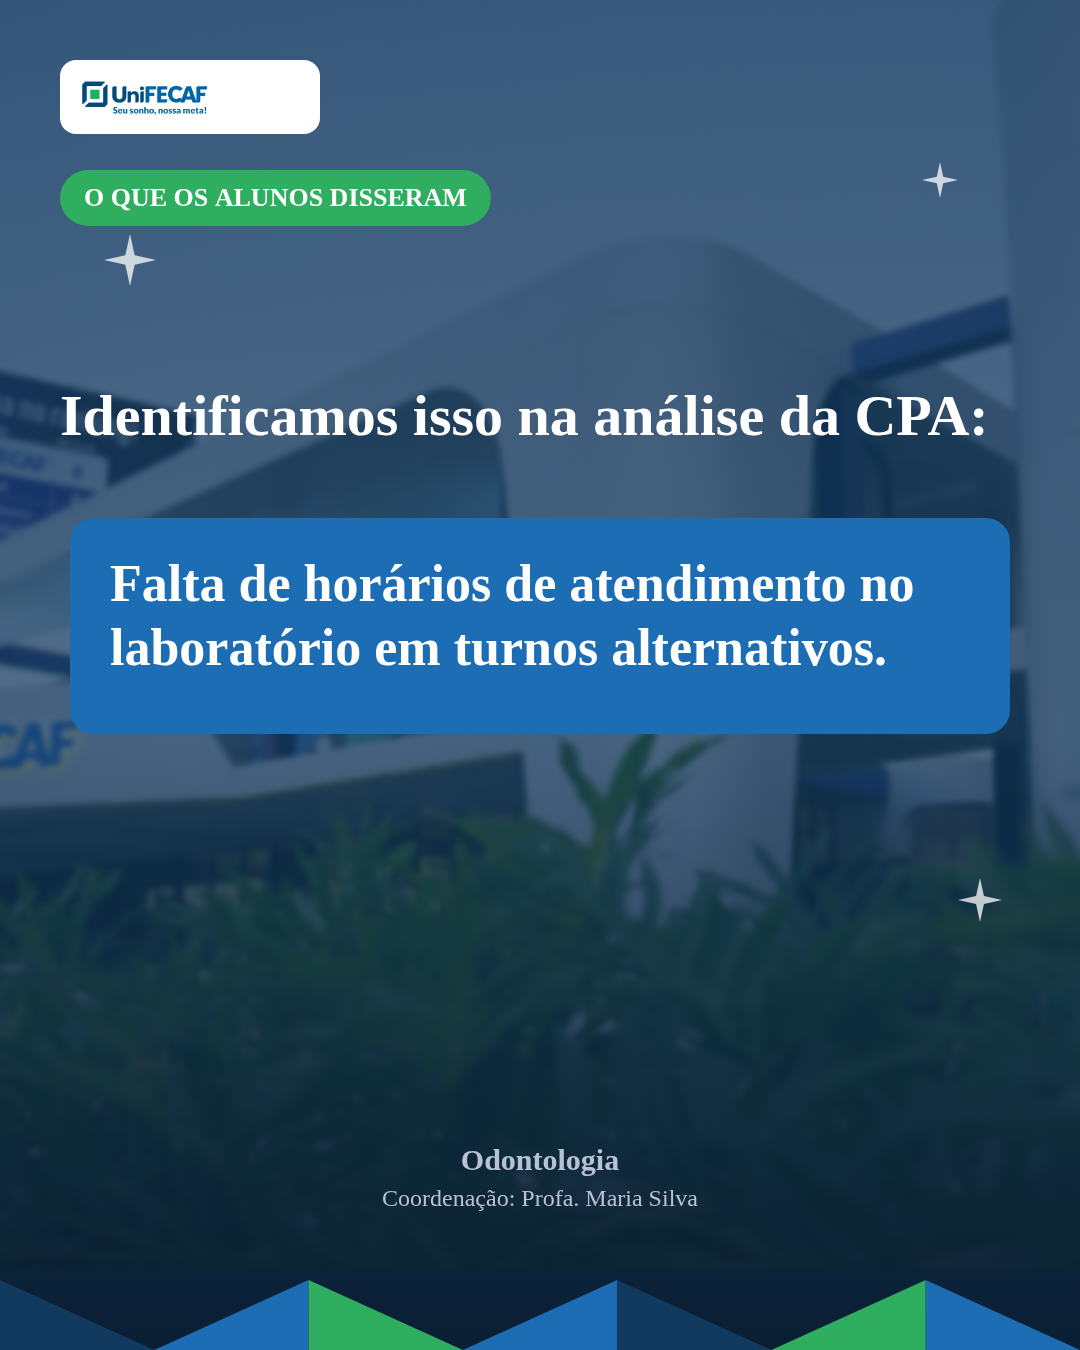
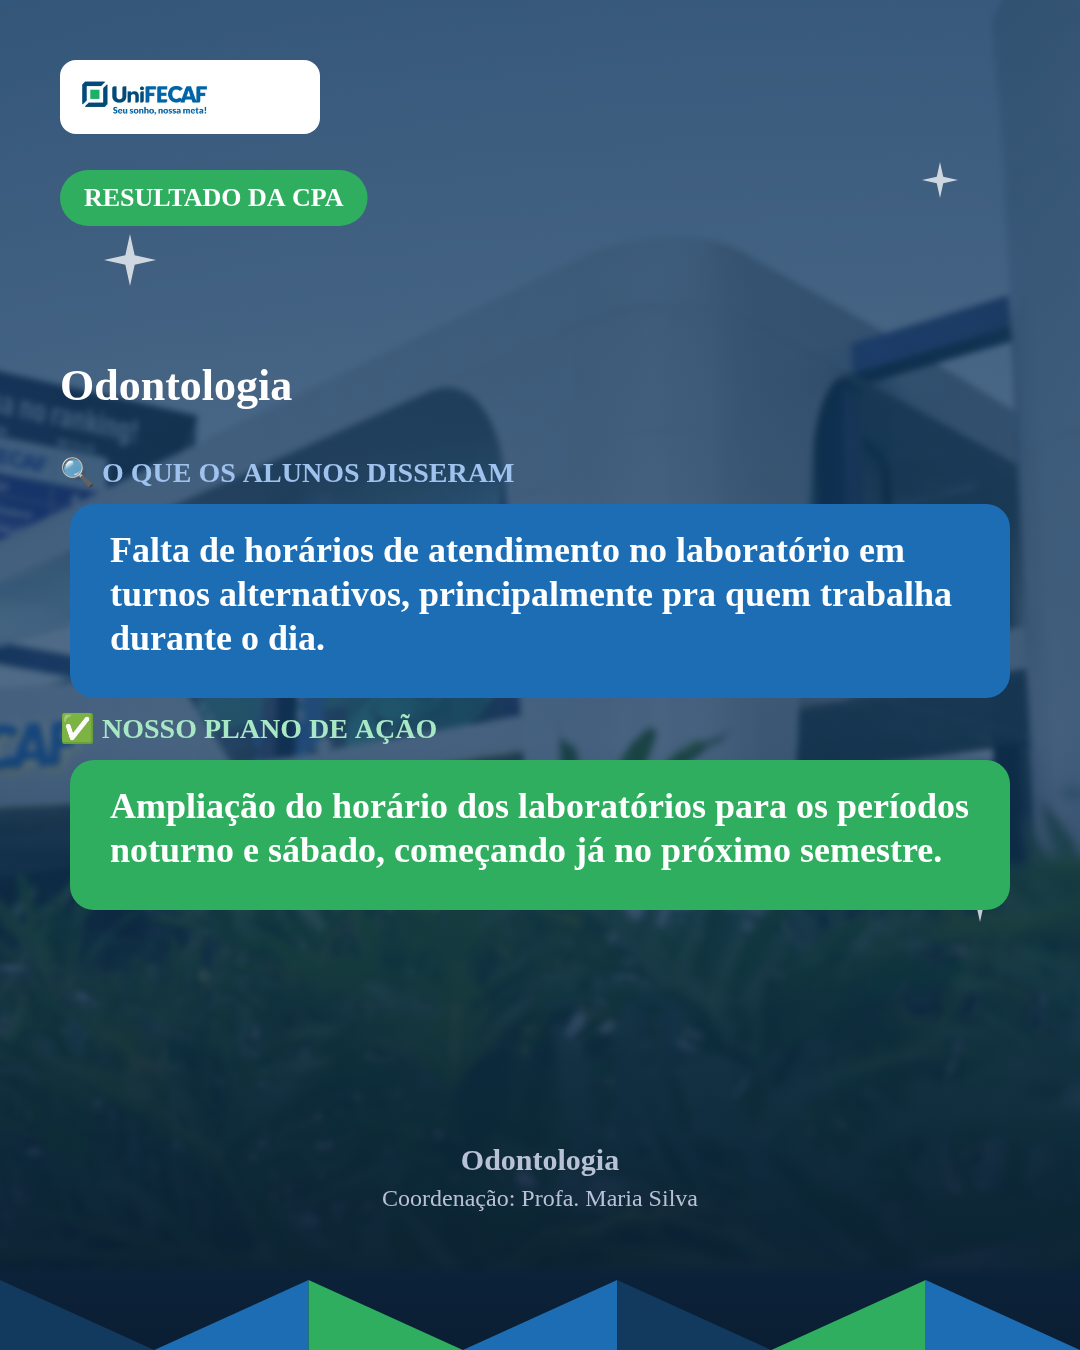
Junta problema+solução numa tela só por plano no protótipo v2
Depois de testar com dados reais no portal, 1 plano aprovado gerava
4 imagens (capa, problema, solução, encerramento) — sensação de
excesso, principalmente pra coordenador de curso único. Substitui
as duas telas por item (problema / solução) por uma só, com os dois
blocos empilhados e texto truncado (~130 caracteres) pra não ficar
poluído. Resultado: 1 plano = 3 imagens; 3 planos = 5 (em vez de 8).

Ainda como protótipo isolado, aguardando aprovação visual do Yago
antes de portar pra dentro do index.html.

Claude-Session: https://claude.ai/code/session_019qUdFDgaMF72fDEGp7biez

Changed region(s): [[0.0611, 0.28, 0.9472, 0.6844], [0.0611, 0.1244, 0.4583, 0.1867]]

diff --git a/templates/post-cpa-v2/proto.html b/templates/post-cpa-v2/proto.html
@@ -14,7 +14,6 @@
 <body>
 <canvas id="c-capa" width="1080" height="1350"></canvas>
 <canvas id="c-problema" width="1080" height="1350"></canvas>
-<canvas id="c-solucao" width="1080" height="1350"></canvas>
 <canvas id="c-fim" width="1080" height="1350"></canvas>
 
 <script>
@@ -145,12 +144,19 @@ function seloTopo(ctx, texto, x, y){
   ctx.fillText(texto, x + 24, y + 29);
 }
 
-function caixaDestaque(ctx, texto, cor, y0, alturaExtra){
-  ctx.font = '800 52px Poppins';
+function truncarTexto(texto, maxChars){
+  texto = String(texto || '').trim();
+  if(texto.length <= maxChars) return texto;
+  return texto.slice(0, maxChars - 1).trim() + '…';
+}
+
+function caixaDestaque(ctx, texto, cor, y0, fontSizePx){
+  fontSizePx = fontSizePx || 52;
+  ctx.font = '800 ' + fontSizePx + 'px Poppins';
   const maxLargura = 900;
   const linhas = quebrarTexto(ctx, texto, maxLargura);
-  const linhaAltura = 64;
-  const padY = 44;
+  const linhaAltura = Math.round(fontSizePx * 1.23);
+  const padY = Math.round(fontSizePx * 0.85);
   const altura = linhas.length * linhaAltura + padY * 2;
   const largura = 940;
   const x = (1080 - largura) / 2;
@@ -205,38 +211,34 @@ function desenharCapa(ctx, dados){
   ctx.fillText('Coordenação: ' + dados.coordenador, 60, y + 104);
 }
 
-// ---------- SLIDE 2: PROBLEMA ----------
-function desenharProblema(ctx, dados){
+// ---------- SLIDE: UM ITEM (problema + solução juntos, mais denso) ----------
+function desenharItem(ctx, dados){
   fundoBase(ctx, 'rgba(255,255,255,0.75)', dados.foto);
   logoCard(ctx, 60, 60, dados.logo);
-  seloTopo(ctx, 'O QUE OS ALUNOS DISSERAM', 60, 170);
+  seloTopo(ctx, 'RESULTADO DA CPA', 60, 170);
 
   ctx.fillStyle = WHITE;
   ctx.textAlign = 'left';
-  ctx.font = '800 58px Poppins';
-  let y = 420;
-  quebrarTexto(ctx, 'Identificamos isso na análise da CPA:', 940).forEach(l=>{ ctx.fillText(l, 60, y); y += 68; });
-
+  ctx.textBaseline = 'alphabetic';
+  ctx.font = '800 44px Poppins';
+  let y = 400;
+  quebrarTexto(ctx, dados.curso, 940).forEach(l=>{ ctx.fillText(l, 60, y); y += 52; });
   y += 30;
-  const yFinal = caixaDestaque(ctx, dados.problema, BLUE, y, 0);
 
-  rodapeAtribuicao(ctx, dados.curso, dados.coordenador);
-}
+  ctx.fillStyle = '#9FC3EE';
+  ctx.textBaseline = 'alphabetic';
+  ctx.font = '700 28px "Work Sans"';
+  ctx.fillText('🔍 O QUE OS ALUNOS DISSERAM', 60, y);
+  y += 22;
+  y = caixaDestaque(ctx, truncarTexto(dados.problema, 130), BLUE, y, 36);
+  y += 40;
 
-// ---------- SLIDE 3: SOLUÇÃO ----------
-function desenharSolucao(ctx, dados){
-  fundoBase(ctx, 'rgba(255,255,255,0.75)', dados.foto);
-  logoCard(ctx, 60, 60, dados.logo);
-  seloTopo(ctx, 'NOSSO PLANO DE AÇÃO', 60, 170);
-
-  ctx.fillStyle = WHITE;
-  ctx.textAlign = 'left';
-  ctx.font = '800 58px Poppins';
-  let y = 420;
-  quebrarTexto(ctx, 'Aqui está o que vamos fazer:', 940).forEach(l=>{ ctx.fillText(l, 60, y); y += 68; });
-
-  y += 30;
-  caixaDestaque(ctx, dados.solucao, GREEN, y, 0);
+  ctx.fillStyle = '#A9E8C4';
+  ctx.textBaseline = 'alphabetic';
+  ctx.font = '700 28px "Work Sans"';
+  ctx.fillText('✅ NOSSO PLANO DE AÇÃO', 60, y);
+  y += 22;
+  caixaDestaque(ctx, truncarTexto(dados.solucao, 130), GREEN, y, 36);
 
   rodapeAtribuicao(ctx, dados.curso, dados.coordenador);
 }
@@ -276,13 +278,10 @@ async function main(){
   desenharCapa(document.getElementById('c-capa').getContext('2d'), {
     curso: 'Odontologia', coordenador: 'Profa. Maria Silva', foto, logo
   });
-  desenharProblema(document.getElementById('c-problema').getContext('2d'), {
+  desenharItem(document.getElementById('c-problema').getContext('2d'), {
     curso: 'Odontologia', coordenador: 'Profa. Maria Silva', foto, logo,
-    problema: 'Falta de horários de atendimento no laboratório em turnos alternativos.'
-  });
-  desenharSolucao(document.getElementById('c-solucao').getContext('2d'), {
-    curso: 'Odontologia', coordenador: 'Profa. Maria Silva', foto, logo,
-    solucao: 'Ampliação do horário dos laboratórios para os períodos noturno e sábado.'
+    problema: 'Falta de horários de atendimento no laboratório em turnos alternativos, principalmente pra quem trabalha durante o dia.',
+    solucao: 'Ampliação do horário dos laboratórios para os períodos noturno e sábado, começando já no próximo semestre.'
   });
   desenharEncerramento(document.getElementById('c-fim').getContext('2d'), { foto, logo });
 
